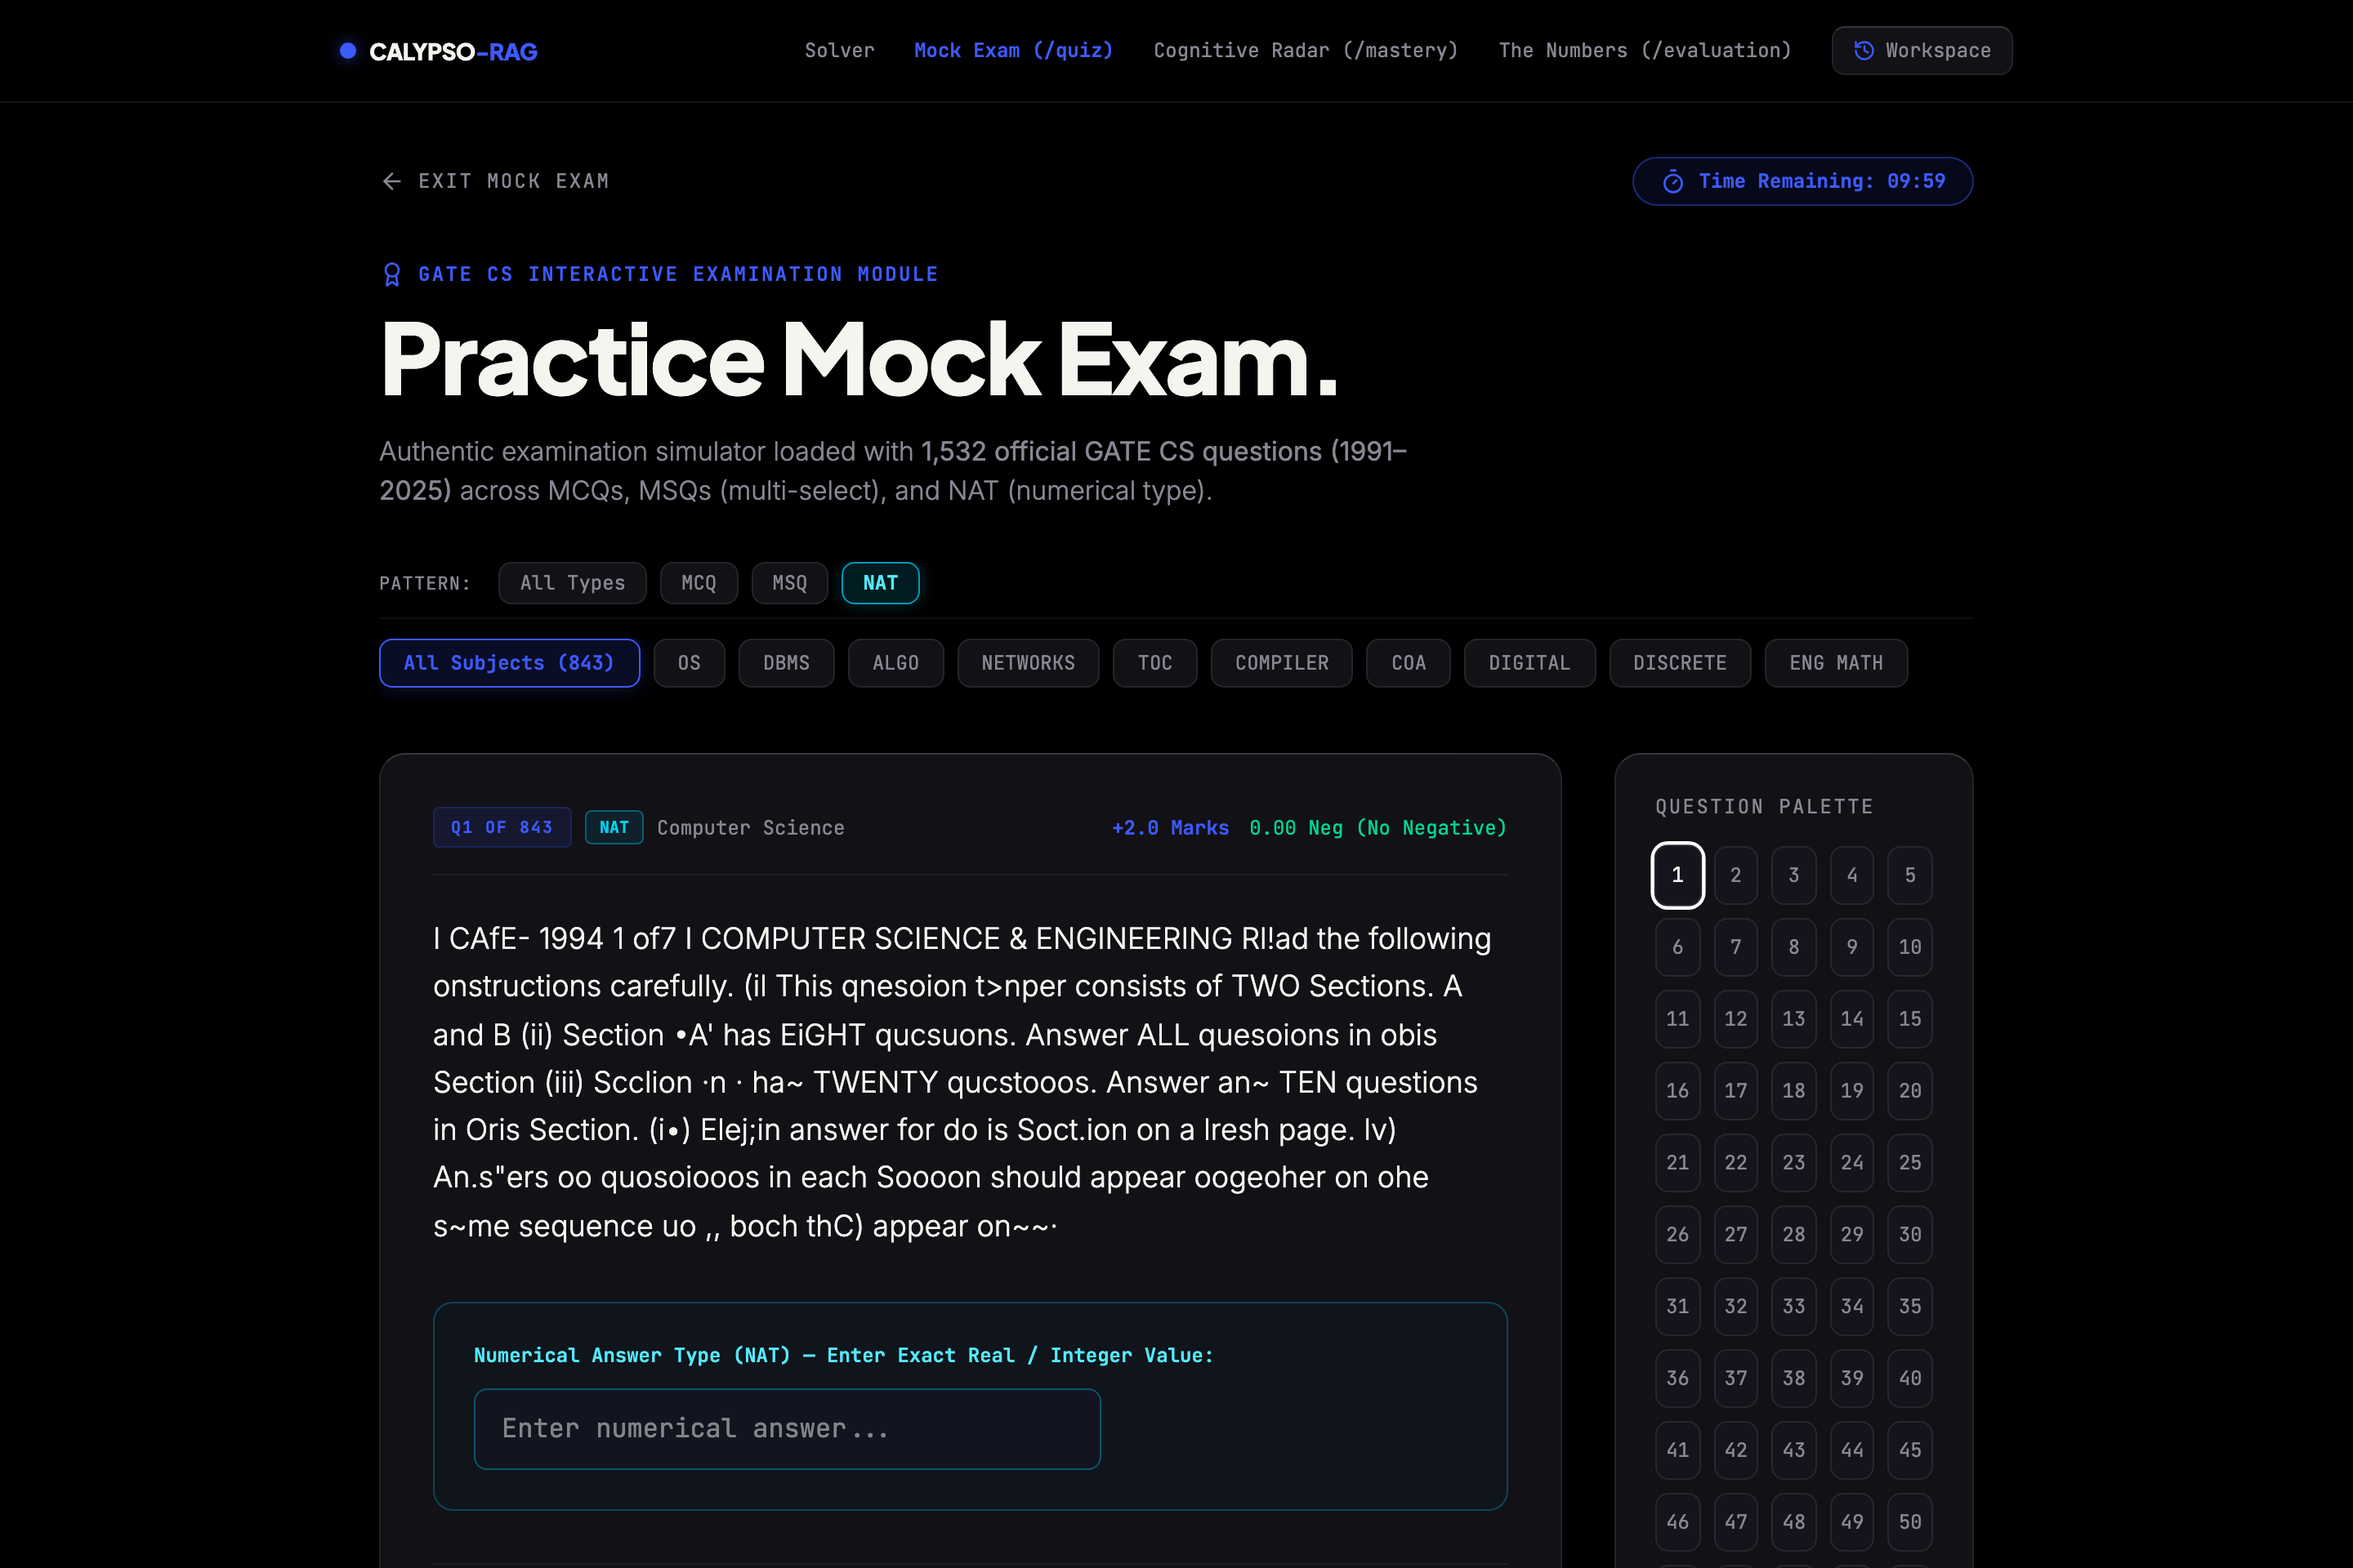
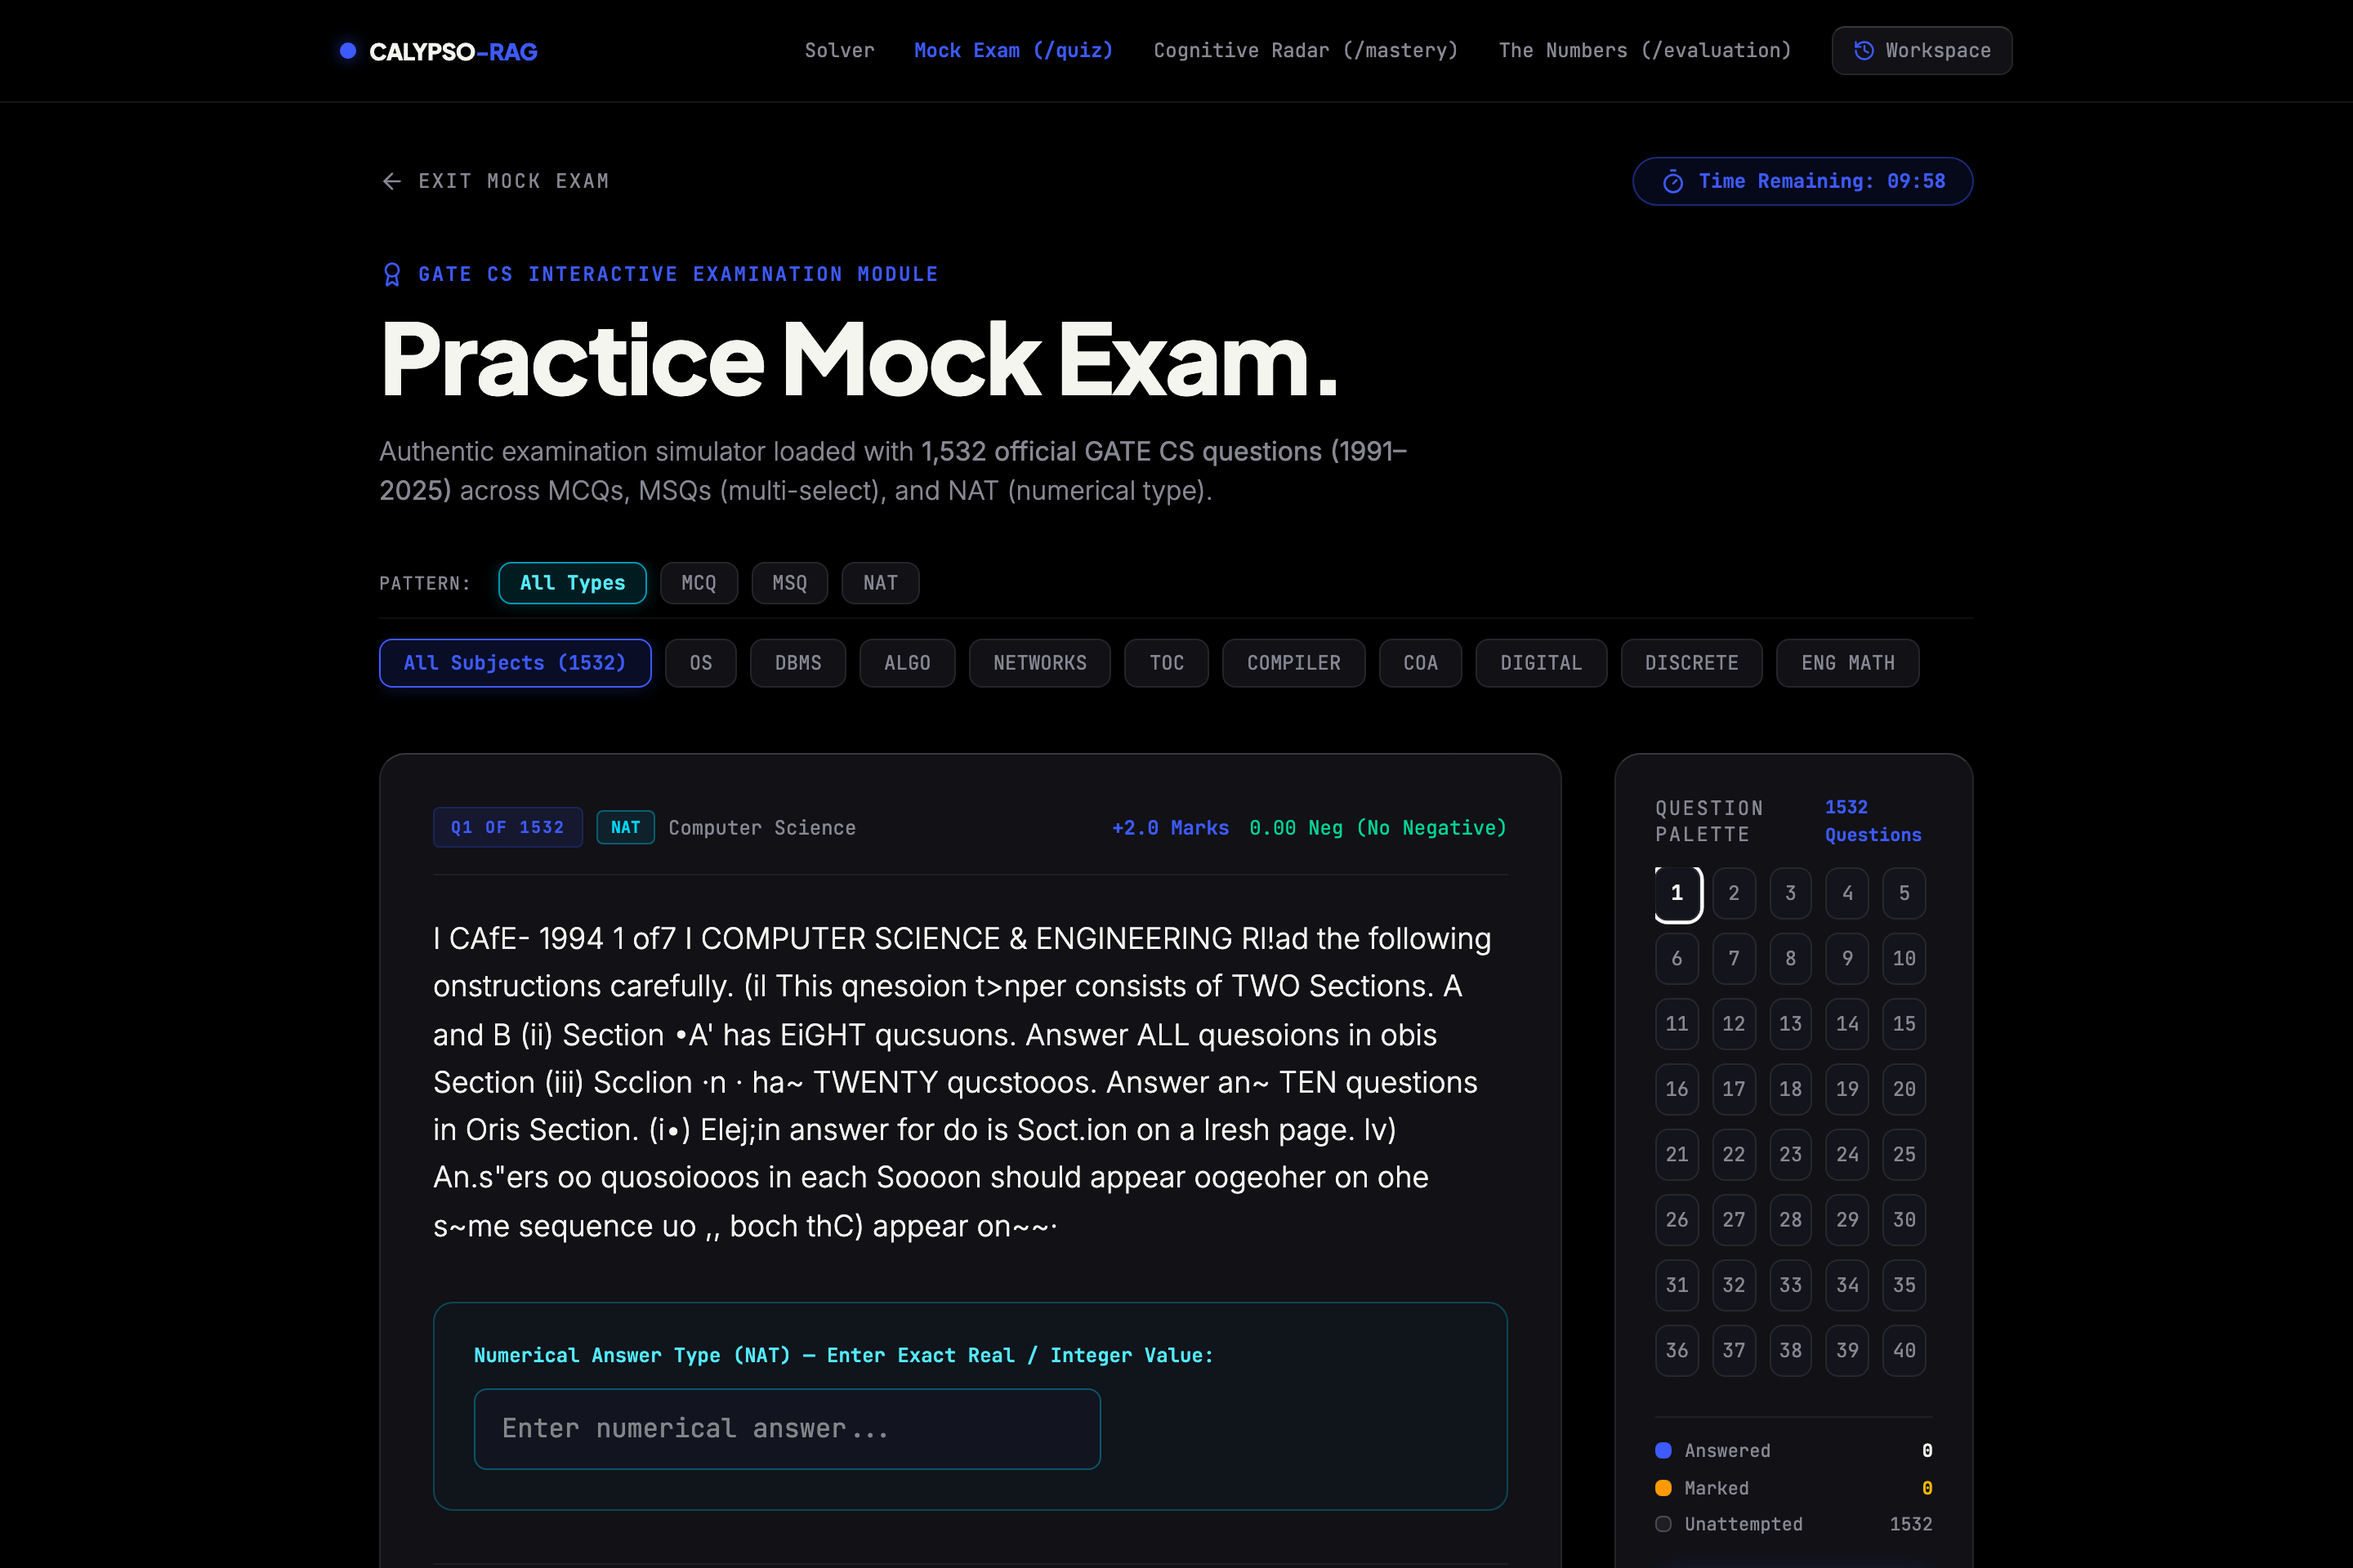
fix(ui): convert Question Palette into a compact, sticky, and scrollable container

diff --git a/frontend/src/components/QuizView.tsx b/frontend/src/components/QuizView.tsx
@@ -416,65 +416,83 @@ export const QuizView: React.FC<QuizViewProps> = ({ onBack }) => {
             </div>
           </div>
 
-          {/* Right Question Palette */}
-          <div className="space-y-6">
-            <div className="p-6 rounded-2xl border border-white/[0.08] border-t-white/[0.16] bg-[#111116] shadow-[0_8px_24px_rgba(0,0,0,0.5)]">
-              <h4 className="text-xs font-mono uppercase tracking-widest text-muted-gray mb-4">
-                Question Palette
-              </h4>
+          {/* Right Question Palette (Sticky & Scrollable Box) */}
+          <div className="space-y-6 md:sticky md:top-24 self-start">
+            <div className="p-5 sm:p-6 rounded-2xl border border-white/[0.08] border-t-white/[0.16] bg-[#111116] shadow-[0_8px_24px_rgba(0,0,0,0.5)]">
+              <div className="flex items-center justify-between gap-2 mb-3">
+                <h4 className="text-xs font-mono uppercase tracking-widest text-muted-gray">
+                  Question Palette
+                </h4>
+                <span className="text-[11px] font-mono text-accent font-bold">
+                  {questions.length} Questions
+                </span>
+              </div>
 
-              <div className="grid grid-cols-5 gap-2 mb-6">
-                {questions.map((q, idx) => {
-                  const isAns = !!userAnswers[q.id];
-                  const isMarked = !!markedForReview[q.id];
-                  const isCurrent = currentIdx === idx;
+              {/* Scrollable Question Grid Container */}
+              <div className="max-h-64 sm:max-h-80 overflow-y-auto pr-1 mb-4 scrollbar-thin scrollbar-thumb-white/10 hover:scrollbar-thumb-accent/40">
+                <div className="grid grid-cols-5 gap-2">
+                  {questions.map((q, idx) => {
+                    const isAns = !!userAnswers[q.id];
+                    const isMarked = !!markedForReview[q.id];
+                    const isCurrent = currentIdx === idx;
 
-                  let badgeColor = "border-white/[0.08] text-muted-gray bg-[#14141c]";
-                  if (isMarked) {
-                    badgeColor = "border-amber-500/80 bg-amber-500/20 text-amber-300 font-bold shadow-[0_0_8px_rgba(245,158,11,0.3)]";
-                  } else if (isAns) {
-                    badgeColor = "border-accent bg-accent/20 text-accent font-bold shadow-[0_0_8px_rgba(61,90,254,0.3)]";
-                  }
+                    let badgeColor = "border-white/[0.08] text-muted-gray bg-[#14141c]";
+                    if (isMarked) {
+                      badgeColor = "border-amber-500/80 bg-amber-500/20 text-amber-300 font-bold shadow-[0_0_8px_rgba(245,158,11,0.3)]";
+                    } else if (isAns) {
+                      badgeColor = "border-accent bg-accent/20 text-accent font-bold shadow-[0_0_8px_rgba(61,90,254,0.3)]";
+                    }
 
-                  return (
-                    <button
-                      key={q.id}
-                      onClick={() => setCurrentIdx(idx)}
-                      className={`h-9 rounded-lg border text-xs font-mono flex items-center justify-center transition-all cursor-pointer ${badgeColor} ${
-                        isCurrent ? 'ring-2 ring-white text-off-white scale-105' : ''
-                      }`}
-                    >
-                      {idx + 1}
-                    </button>
-                  );
-                })}
+                    return (
+                      <button
+                        key={q.id}
+                        onClick={() => setCurrentIdx(idx)}
+                        className={`h-8 rounded-lg border text-xs font-mono flex items-center justify-center transition-all cursor-pointer ${badgeColor} ${
+                          isCurrent ? 'ring-2 ring-white text-off-white scale-105 font-bold z-10' : ''
+                        }`}
+                      >
+                        {idx + 1}
+                      </button>
+                    );
+                  })}
+                </div>
               </div>
 
               {/* Legend */}
-              <div className="space-y-2 text-[11px] font-mono text-muted-gray border-t border-white/[0.06] pt-4">
-                <div className="flex items-center gap-2">
-                  <span className="w-2.5 h-2.5 rounded bg-accent" />
-                  <span>Answered ({Object.keys(userAnswers).length})</span>
+              <div className="space-y-1.5 text-[11px] font-mono text-muted-gray border-t border-white/[0.06] pt-3">
+                <div className="flex items-center justify-between">
+                  <div className="flex items-center gap-2">
+                    <span className="w-2.5 h-2.5 rounded bg-accent" />
+                    <span>Answered</span>
+                  </div>
+                  <span className="text-off-white font-bold">{Object.keys(userAnswers).length}</span>
                 </div>
-                <div className="flex items-center gap-2">
-                  <span className="w-2.5 h-2.5 rounded bg-amber-500" />
-                  <span>Marked for Review ({Object.keys(markedForReview).filter(k => markedForReview[k]).length})</span>
+                <div className="flex items-center justify-between">
+                  <div className="flex items-center gap-2">
+                    <span className="w-2.5 h-2.5 rounded bg-amber-500" />
+                    <span>Marked</span>
+                  </div>
+                  <span className="text-amber-400 font-bold">{Object.keys(markedForReview).filter(k => markedForReview[k]).length}</span>
                 </div>
-                <div className="flex items-center gap-2">
-                  <span className="w-2.5 h-2.5 rounded bg-[#1e1e24] border border-white/20" />
-                  <span>Unattempted ({questions.length - Object.keys(userAnswers).length})</span>
+                <div className="flex items-center justify-between">
+                  <div className="flex items-center gap-2">
+                    <span className="w-2.5 h-2.5 rounded bg-[#1e1e24] border border-white/20" />
+                    <span>Unattempted</span>
+                  </div>
+                  <span className="text-muted-gray">{questions.length - Object.keys(userAnswers).length}</span>
                 </div>
               </div>
 
               {/* Instant Submit Button */}
               <button
                 onClick={() => setIsSubmitted(true)}
-                className="w-full mt-6 py-2.5 rounded-xl border border-accent/40 bg-accent/15 text-accent text-xs font-mono font-bold hover:bg-accent hover:text-white transition-all shadow-[0_0_12px_rgba(61,90,254,0.2)]"
+                className="w-full mt-5 py-2.5 rounded-xl border border-accent/40 bg-accent/15 text-accent text-xs font-mono font-bold hover:bg-accent hover:text-white transition-all shadow-[0_0_12px_rgba(61,90,254,0.2)] cursor-pointer"
               >
                 Submit Exam
               </button>
             </div>
           </div>
+
         </div>
       ) : (
         /* Post-Exam Score Report & Detailed Review */
